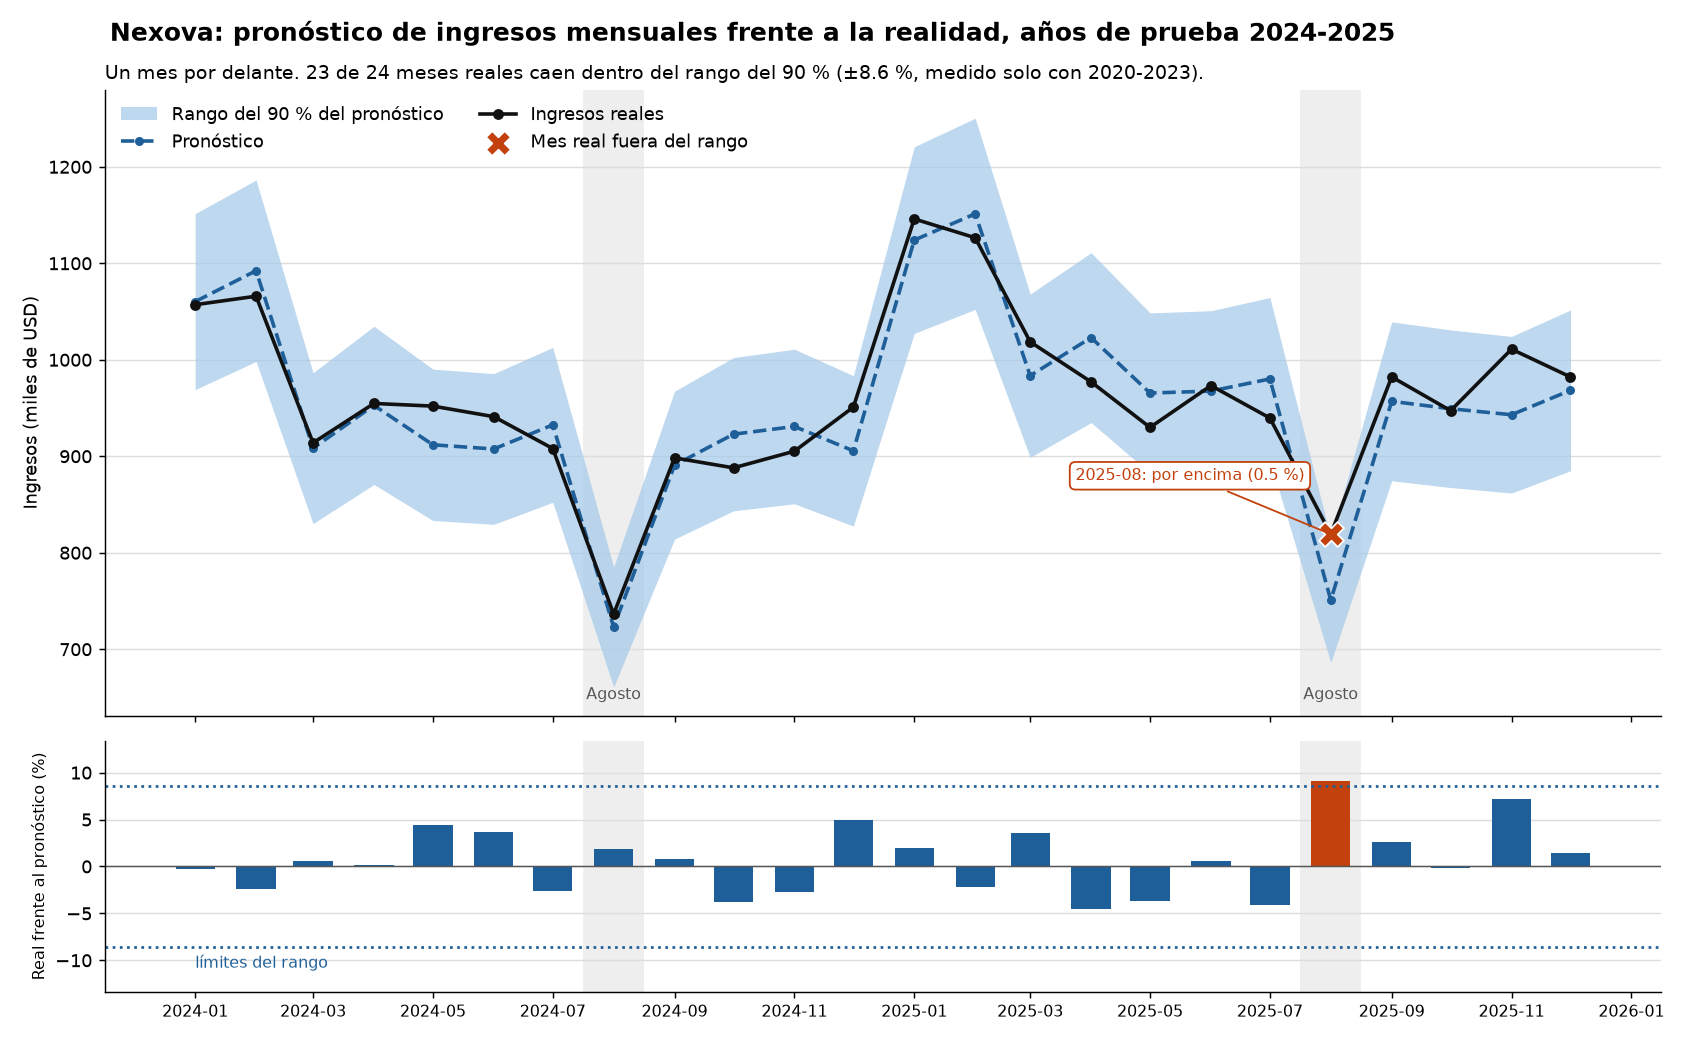
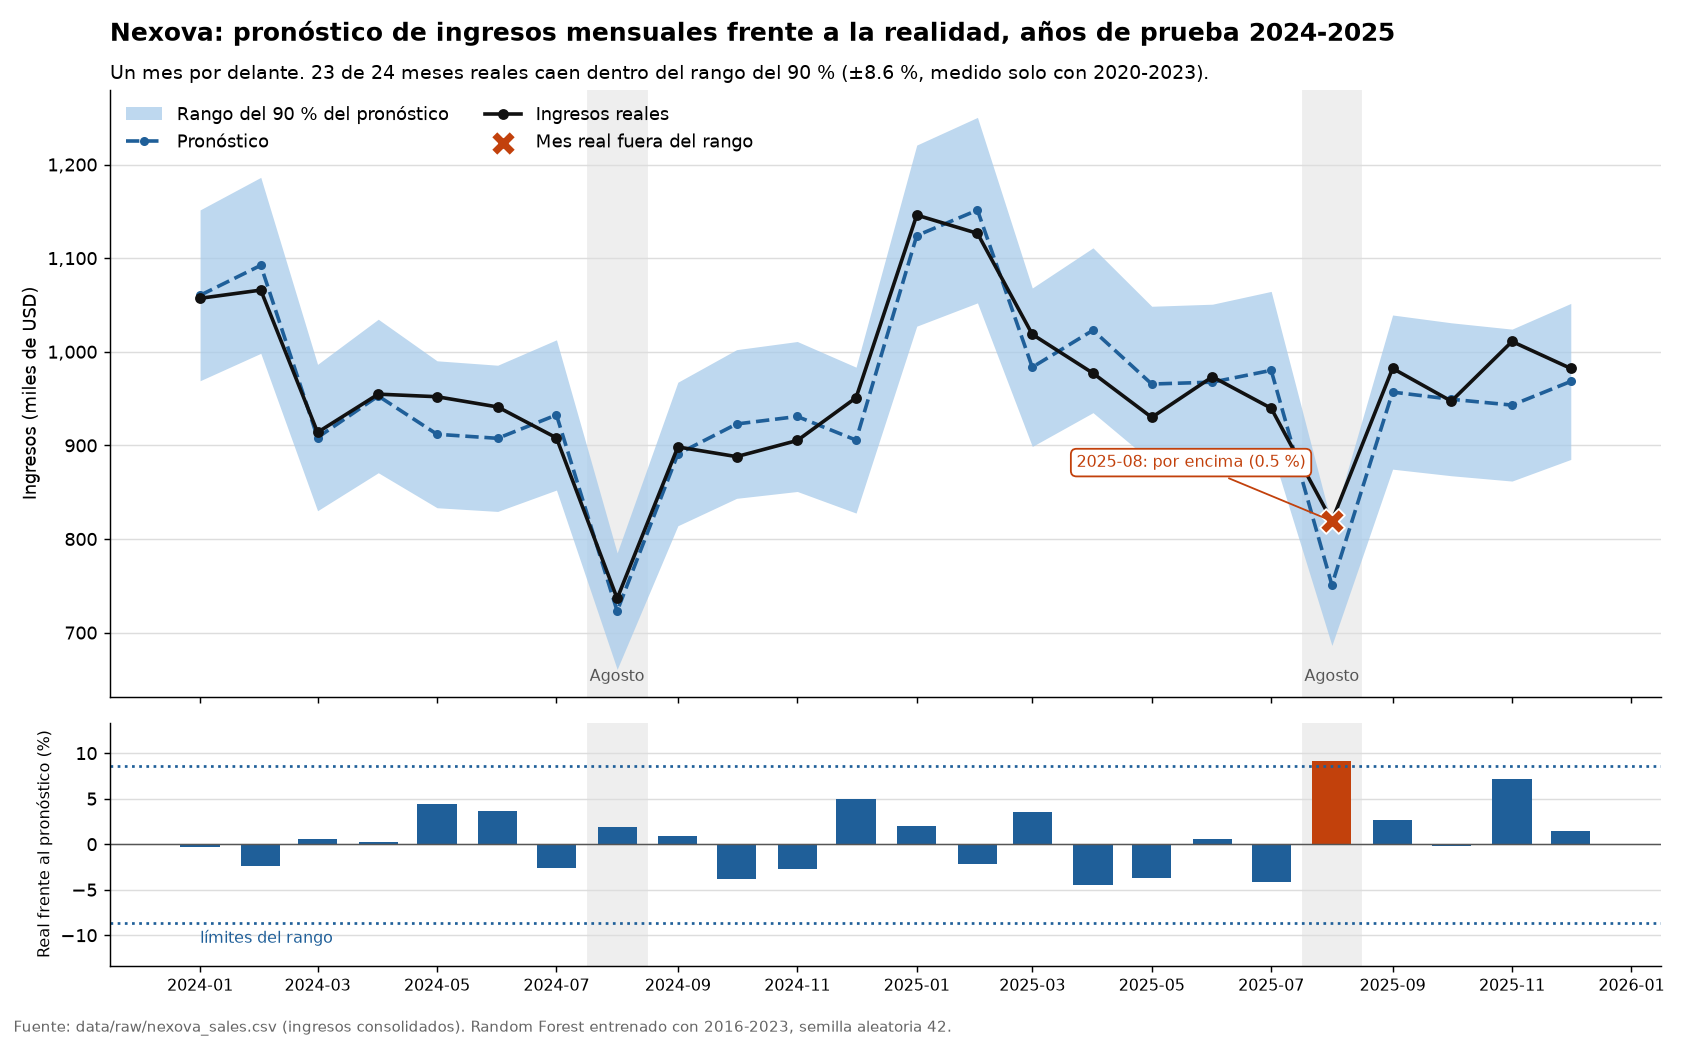
docs(sales): executive summary, process diagram and source line on the chart
The README of the evaluation starts with the answer to the briefing's question in plain words, with a recommendation marked as the author's judgement, and a diagram of the process. A test checks the numbers of the summary. The chart gets thousands separators and its source. The model, its settings and metrics.json are unchanged.

diff --git a/data/process/sales_plot.py b/data/process/sales_plot.py
@@ -13,6 +13,7 @@ matplotlib.use("Agg")  # draws to a file, with no window: it works in a server a
 
 import matplotlib.dates as mdates  # noqa: E402
 import matplotlib.pyplot as plt  # noqa: E402
+import matplotlib.ticker as mticker  # noqa: E402
 import pandas as pd  # noqa: E402
 
 FILES = {"en": "forecast_test.png", "es": "forecast_test.es.png"}
@@ -30,6 +31,7 @@ TEXTS = {
         "revenue": "Revenue (thousand USD)",
         "error": "Real against forecast (%)",
         "limit": "limits of the range",
+        "source": "Source: data/raw/nexova_sales.csv (consolidated revenue). Random Forest trained on 2016-2023, random seed 42.",
     },
     "es": {
         "title": "Nexova: pronóstico de ingresos mensuales frente a la realidad, años de prueba 2024-2025",
@@ -44,6 +46,7 @@ TEXTS = {
         "revenue": "Ingresos (miles de USD)",
         "error": "Real frente al pronóstico (%)",
         "limit": "límites del rango",
+        "source": "Fuente: data/raw/nexova_sales.csv (ingresos consolidados). Random Forest entrenado con 2016-2023, semilla aleatoria 42.",
     },
 }
 ACTUAL, FORECAST, BAND, OUTSIDE = "#111111", "#1f5f99", "#a8cbea", "#c2410c"  # readable without telling red from green: the outliers also change shape
@@ -80,6 +83,7 @@ def plot_forecast(report: dict, path: str | Path, language: str = "en") -> Path:
     for month in months[months.dt.month == 8]:
         top.text(month, 0.02, text["august"], transform=top.get_xaxis_transform(), ha="center", va="bottom", fontsize=9, color="#555555")
     top.set_ylabel(text["revenue"])
+    top.yaxis.set_major_formatter(mticker.StrMethodFormatter("{x:,.0f}"))
     top.legend(loc="upper left", frameon=False, ncol=2)
     figure.suptitle(text["title"], x=0.065, ha="left", fontsize=14, fontweight="bold")
     top.set_title(text["subtitle"].format(inside=interval["inside"], months=interval["test_months"], level=level, half=interval["half_width_percent"]),
@@ -98,7 +102,8 @@ def plot_forecast(report: dict, path: str | Path, language: str = "en") -> Path:
     bottom.xaxis.set_major_formatter(mdates.DateFormatter("%Y-%m"))
     plt.setp(bottom.get_xticklabels(), rotation=0, fontsize=9)
 
-    figure.tight_layout()
+    figure.tight_layout(rect=(0, 0.025, 1, 1))  # a strip at the bottom for the source
+    figure.text(0.008, 0.008, text["source"], fontsize=8.5, color="#666666")
     target = Path(path)
     target.parent.mkdir(parents=True, exist_ok=True)
     figure.savefig(target, dpi=130, metadata={"Software": None})  # nothing that changes from one run to the next inside the file

diff --git a/tests/pipelines/test_sales_forecast_range.py b/tests/pipelines/test_sales_forecast_range.py
@@ -141,3 +141,19 @@ def test_the_readme_shows_the_picture_and_says_the_computed_numbers(evaluated, r
     assert inside in text
     assert f"{interval['tree_spread_inside']} of the 24" in text or f"{interval['tree_spread_inside']} de los 24" in text
     assert f"{interval['tree_spread_mean_width_percent']:.1f} %" in text and f"{2 * interval['half_width_percent']:.1f} %" in text
+
+
+@pytest.mark.parametrize("readme", ["README.md", "README.es.md"])
+def test_the_executive_summary_says_the_computed_numbers(evaluated, readme):
+    """The first thing the management reads must be as true as the rest."""
+    report = evaluated[-1]
+    heading, next_heading = ("## Executive summary", "## How it works") if readme == "README.md" else ("## Resumen para la dirección", "## Cómo funciona")
+    summary = (FOLDER / readme).read_text(encoding="utf-8").split(heading)[1].split(next_heading)[0]
+    model, rival = report["model"], report[ev.NO_MODEL]
+    august = report["model_by_kind_of_month"]["August"]
+    for number in (f"{model['mape_percent']:.2f} %", f"{rival['mape_percent']:.2f} %", f"{report['model_24_months_ahead']['mape_percent']:.2f} %",
+                   f"±{report['range']['half_width_percent']:.1f} %", f"{august['mape_percent']:.1f} %"):
+        assert number in summary, number
+    inside = report["range"]["inside"]
+    assert (f"{inside} of 24" if readme == "README.md" else f"{inside} de 24") in summary
+    assert "Recommendation (the judgement" in summary or "Recomendación (criterio" in summary  # an opinion is never presented as a result

diff --git a/data/eval/sales_forecast/README.es.md b/data/eval/sales_forecast/README.es.md
@@ -4,6 +4,40 @@ _English version: [README.md](./README.md)._
 
 Cómo de bueno es el pronóstico de los ingresos mensuales de Nexova en los **dos años de prueba (2024-2025)**, que no intervinieron ni en la elección ni en el entrenamiento del modelo.
 
+## Resumen para la dirección
+
+**La pregunta (del briefing):** ¿se pueden prever los ingresos de los próximos meses antes de comprometer presupuesto en un dashboard ejecutivo completo?
+
+**La respuesta, en dos años con los que el modelo no se entrenó (2024-2025):**
+
+| | Pronóstico | Repetir el año anterior (sin modelo) |
+| --- | ---: | ---: |
+| Fallo medio de un mes, un mes por delante | **2.85 %** | 4.98 % |
+| Meses reales dentro del rango del pronóstico (±8.6 %, objetivo 90 %) | **23 de 24** | no se da |
+
+* Pronosticando los dos años de golpe desde finales de 2023, el fallo medio es del 3.09 % (para este caso no se da rango).
+* **Agosto es el mes más débil:** el fallo medio es del 5.1 % y el pronóstico se quedó corto las dos veces (solo hay dos agostos para juzgarlo).
+* **Cómo usarlo:** comparar cada mes real con su rango. **Por debajo** del rango hay una caída que ni la temporada ni la tendencia explican, y merece revisarse.
+
+**Recomendación (criterio de quien lo construyó, no un resultado de los datos):** es suficiente para apoyar la planificación mensual como primer paso. Antes de confiar en un dashboard: conseguir los ingresos mensuales de cada línea de negocio (sin ellos no se puede vigilar el cambio de reparto), contrastarlo con las cifras reales según lleguen (este dataset es anormalmente regular, así que en la realidad cabe esperar más error) y volver a entrenarlo cada año.
+
+## Cómo funciona
+
+```mermaid
+flowchart LR
+    A[("nexova_sales.csv<br/>2016-2025")] --> B["Comprobar columnas<br/>tratar vacíos"]
+    B --> C["Variables causales<br/>meses pasados + calendario"]
+    C --> D{"Separar por fecha"}
+    D -->|"8 años: 2016-2023"| E["Elegir ajustes con<br/>validación temporal"] --> F["Random Forest<br/>(escalado dentro)"]
+    D -->|"2 años: 2024-2025"| G["Evaluar una vez:<br/>MSE · PSI · Gini · K²"]
+    F --> G
+    F --> H["Rango del 90 %<br/>con errores de validación"]
+    G --> I["metrics.json<br/>y la gráfica"]
+    H --> I
+```
+
+## Ejecutarlo
+
 ```bash
 uv run python scripts/train_sales_forecast.py     # entrena, evalúa y escribe aquí metrics.json y las dos gráficas
 ```

diff --git a/data/eval/sales_forecast/README.md b/data/eval/sales_forecast/README.md
@@ -4,6 +4,40 @@ _Versión en español: [README.es.md](./README.es.md)._
 
 How good the forecast of Nexova's monthly revenue is on the **two test years (2024-2025)**, which took no part in choosing or training the model.
 
+## Executive summary
+
+**The question (briefing):** can the revenue of the coming months be forecast, before committing budget to a full executive dashboard?
+
+**The answer, on two years the model never trained on (2024-2025):**
+
+| | Forecast | Repeating the year before (no model) |
+| --- | ---: | ---: |
+| Average miss of a month, one month ahead | **2.85 %** | 4.98 % |
+| Real months inside the forecast's range (±8.6 %, aim 90 %) | **23 of 24** | not given |
+
+* Forecasting both years at once, from the end of 2023, the average miss is 3.09 % (no range is given for this case).
+* **August is the weakest month:** the average miss is 5.1 % and the forecast fell short both times (only two Augusts to judge by).
+* **How to use it:** compare each real month with its range. **Below** the range is a fall that the season and the trend do not explain, and deserves a look.
+
+**Recommendation (the judgement of whoever built it, not a result of the data):** good enough to support monthly planning as a first step. Before relying on a dashboard: get the monthly revenue of each business line (without it the change of mix cannot be watched), check it against real figures as they arrive (this dataset is unusually regular, so expect larger errors in real life), and train it again each year.
+
+## How it works
+
+```mermaid
+flowchart LR
+    A[("nexova_sales.csv<br/>2016-2025")] --> B["Check columns<br/>treat empty values"]
+    B --> C["Causal features<br/>past months + calendar"]
+    C --> D{"Split by time"}
+    D -->|"8 years: 2016-2023"| E["Choose settings by<br/>time validation"] --> F["Random Forest<br/>(scaler inside)"]
+    D -->|"2 years: 2024-2025"| G["Evaluate once:<br/>MSE · PSI · Gini · K²"]
+    F --> G
+    F --> H["90 % range<br/>from validation errors"]
+    G --> I["metrics.json<br/>and the picture"]
+    H --> I
+```
+
+## Run it
+
 ```bash
 uv run python scripts/train_sales_forecast.py     # trains, evaluates and writes metrics.json and the two pictures here
 ```

diff --git a/memory-bank/progress.md b/memory-bank/progress.md
@@ -9,7 +9,7 @@ Briefing: [`BRIEFING_NEXOVA_SALES.md`](../BRIEFING_NEXOVA_SALES.md). Resultados 
 - [x] Preparación de datos (columnas, vacíos tratados sin usar el futuro, split 8/2 años, escalado dentro del modelo): `data/process/sales_forecast.py`.
 - [x] Random Forest elegido con validación temporal solo en 2016-2023 (empata en precisión con XGBoost; la elección se apoya en tamaño de datos, explicabilidad y ajuste): `data/process/sales_model.py`.
 - [x] MSE, PSI, Gini y K² Score sobre 2024-2025, y gráfica con rango del 90 %: `sales_metrics.py`, `sales_evaluation.py`, `sales_range.py`, `sales_plot.py`.
-- [x] Script `scripts/train_sales_forecast.py` y pruebas en `tests/pipelines/test_sales_forecast_*.py` (`uv run pytest tests/pipelines`: 130 pasan).
+- [x] Script `scripts/train_sales_forecast.py` y pruebas en `tests/pipelines/test_sales_forecast_*.py` (`uv run pytest tests/pipelines`: 132 pasan).
 - [x] Entrega: commits, push y Pull Request a `main`.
 - [ ] Revisión del tech lead y merge (no fusionar antes).
 - [ ] Confirmar con el profesor qué métrica es el "K2 Score" (implementada la K² de D'Agostino-Pearson).
